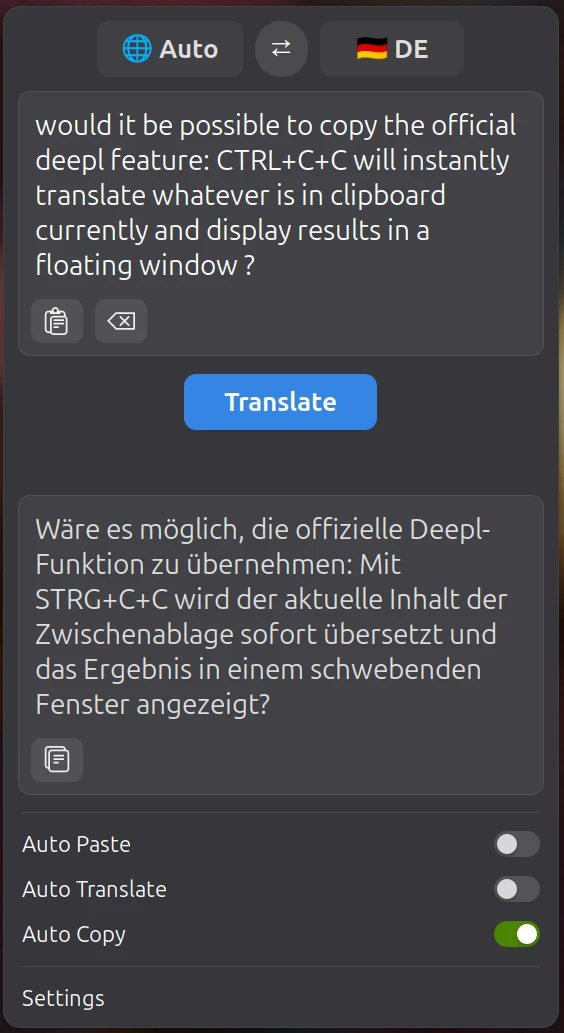
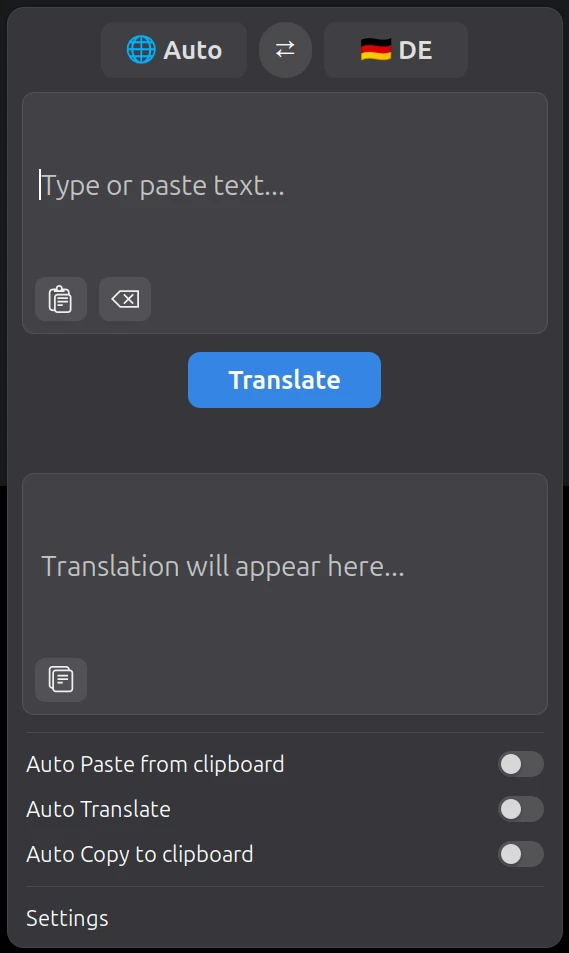
refactor: consolidate preference pages into a single view and improve setting descriptions

diff --git a/prefs.js b/prefs.js
@@ -39,25 +39,25 @@ export default class FastTranslatePreferences extends ExtensionPreferences {
     fillPreferencesWindow(window) {
         const settings = this.getSettings();
 
-        // ----------------- GENERAL PAGE -----------------
-        const generalPage = new Adw.PreferencesPage({
-            title: _('General'),
+        // ----------------- PREFERENCES PAGE -----------------
+        const preferencesPage = new Adw.PreferencesPage({
+            title: _('Preferences'),
             icon_name: 'preferences-other-symbolic',
         });
-        window.add(generalPage);
+        window.add(preferencesPage);
 
-        // Language Group
+        // Group 1: Language Settings
         const langGroup = new Adw.PreferencesGroup({
             title: _('Language Settings'),
         });
-        generalPage.add(langGroup);
+        preferencesPage.add(langGroup);
 
         // Translation Service Combo
         const serviceKey = settings.settings_schema.get_key('translation-service');
         const serviceEnums = serviceKey.get_range().deep_unpack()[1].deep_unpack();
         const serviceRow = new Adw.ComboRow({
             title: _('Translation Service'),
-            subtitle: _('The translation service provider to use'),
+            subtitle: _('Choose between Google Translate (unlimited) and DeepL (requires API key)'),
             model: Gtk.StringList.new(serviceEnums),
         });
         serviceRow.selected = settings.get_enum('translation-service');
@@ -76,7 +76,7 @@ export default class FastTranslatePreferences extends ExtensionPreferences {
         const sourceEnums = sourceKey.get_range().deep_unpack()[1].deep_unpack();
         const sourceLangRow = new Adw.ComboRow({
             title: _('Source Language'),
-            subtitle: _('Language of the text to be translated'),
+            subtitle: _('Default source language for new translations'),
             model: Gtk.StringList.new(sourceEnums),
         });
         sourceLangRow.selected = settings.get_enum('source-lang');
@@ -93,7 +93,7 @@ export default class FastTranslatePreferences extends ExtensionPreferences {
         const targetEnums = targetKey.get_range().deep_unpack()[1].deep_unpack();
         const targetLangRow = new Adw.ComboRow({
             title: _('Target Language'),
-            subtitle: _('The language into which the text should be translated'),
+            subtitle: _('Default target language for new translations'),
             model: Gtk.StringList.new(targetEnums),
         });
         targetLangRow.selected = settings.get_enum('target-lang');
@@ -110,7 +110,7 @@ export default class FastTranslatePreferences extends ExtensionPreferences {
         const formalityEnums = formalityKey.get_range().deep_unpack()[1].deep_unpack();
         const formalityRow = new Adw.ComboRow({
             title: _('Formality'),
-            subtitle: _('Sets whether the translated text should lean towards formal or informal language'),
+            subtitle: _('Lean towards formal or informal language structure (DeepL only)'),
             model: Gtk.StringList.new(formalityEnums),
         });
         formalityRow.selected = settings.get_enum('formality');
@@ -122,15 +122,16 @@ export default class FastTranslatePreferences extends ExtensionPreferences {
         });
         langGroup.add(formalityRow);
 
-        // API Configuration Group
+        // Group 2: API Configuration
         const apiGroup = new Adw.PreferencesGroup({
             title: _('DeepL Translation API Configuration'),
         });
-        generalPage.add(apiGroup);
+        preferencesPage.add(apiGroup);
 
         // URL Entry
         const urlRow = new Adw.EntryRow({
             title: _('DeepL API URL'),
+            subtitle: _('The endpoint URL for DeepL Translation API requests'),
         });
         settings.bind('url', urlRow, 'text', Gio.SettingsBindFlags.DEFAULT);
         apiGroup.add(urlRow);
@@ -138,126 +139,111 @@ export default class FastTranslatePreferences extends ExtensionPreferences {
         // API Key Entry
         const apikeyRow = new Adw.EntryRow({
             title: _('API Key'),
+            subtitle: _('Your private DeepL API authentication key'),
             use_markup: false,
         });
         settings.bind('apikey', apikeyRow, 'text', Gio.SettingsBindFlags.DEFAULT);
         apiGroup.add(apikeyRow);
 
-        // Formatting options Group
+        // Group 3: Formatting Options
         const formattingGroup = new Adw.PreferencesGroup({
             title: _('Formatting Options'),
         });
-        generalPage.add(formattingGroup);
+        preferencesPage.add(formattingGroup);
 
         const splitRow = new Adw.SwitchRow({
             title: _('Split Sentences'),
-            subtitle: _('Split the input text into sentences before translating'),
+            subtitle: _('Split the input text into sentences to improve translation context and quality'),
         });
         settings.bind('split-sentences', splitRow, 'active', Gio.SettingsBindFlags.DEFAULT);
         formattingGroup.add(splitRow);
 
         const preserveRow = new Adw.SwitchRow({
             title: _('Preserve Formatting'),
-            subtitle: _('Respect original formatting details'),
+            subtitle: _('Retain original formatting details like capitalization, spacing, and newlines'),
         });
         settings.bind('preserve-formatting', preserveRow, 'active', Gio.SettingsBindFlags.DEFAULT);
         formattingGroup.add(preserveRow);
 
-
-        // ----------------- BEHAVIOR PAGE -----------------
-        const behaviorPage = new Adw.PreferencesPage({
-            title: _('Behavior'),
-            icon_name: 'preferences-system-details-symbolic',
-        });
-        window.add(behaviorPage);
-
-        // Auto Options Group
+        // Group 4: Panel Menu Automation
         const autoGroup = new Adw.PreferencesGroup({
-            title: _('Automatic Actions'),
+            title: _('Panel Menu Automation'),
         });
-        behaviorPage.add(autoGroup);
+        preferencesPage.add(autoGroup);
 
         const autoPasteRow = new Adw.SwitchRow({
             title: _('Auto Paste from clipboard'),
-            subtitle: _('Paste clipboard content automatically into the input field'),
+            subtitle: _('Automatically paste clipboard contents into the input box when the panel popup opens'),
         });
         settings.bind('auto-paste', autoPasteRow, 'active', Gio.SettingsBindFlags.DEFAULT);
         autoGroup.add(autoPasteRow);
 
         const autoTranslateRow = new Adw.SwitchRow({
             title: _('Auto Translate'),
-            subtitle: _('Translate automatically when input is populated'),
+            subtitle: _('Translate automatically while typing in the input box'),
         });
         settings.bind('auto-translate', autoTranslateRow, 'active', Gio.SettingsBindFlags.DEFAULT);
         autoGroup.add(autoTranslateRow);
 
         const autoCopyRow = new Adw.SwitchRow({
             title: _('Auto Copy to clipboard'),
-            subtitle: _('Copy translations automatically to the clipboard'),
+            subtitle: _('Automatically copy translation results to the clipboard when translation completes'),
         });
         settings.bind('auto-copy', autoCopyRow, 'active', Gio.SettingsBindFlags.DEFAULT);
         autoGroup.add(autoCopyRow);
 
+        // Group 5: Double-Copy Instant Translation
+        const doubleCopyGroup = new Adw.PreferencesGroup({
+            title: _('Double-Copy Instant Translation'),
+        });
+        preferencesPage.add(doubleCopyGroup);
+
         const floatingAutoCopyRow = new Adw.SwitchRow({
-            title: _('Auto Copy (Floating) to clipboard'),
-            subtitle: _('Copy floating translation results automatically to the clipboard'),
+            title: _('Auto Copy (Floating)'),
+            subtitle: _('Automatically copy the translated text to the clipboard when using the floating window'),
         });
         settings.bind('floating-auto-copy', floatingAutoCopyRow, 'active', Gio.SettingsBindFlags.DEFAULT);
-        autoGroup.add(floatingAutoCopyRow);
+        doubleCopyGroup.add(floatingAutoCopyRow);
 
         const backgroundModeRow = new Adw.SwitchRow({
             title: _('Double-copy Background Mode'),
-            subtitle: _('Translate in background on double-copy instead of showing the floating window'),
+            subtitle: _('Translate silently in the background on double-copy (Ctrl+C Ctrl+C) without showing the floating UI'),
         });
         settings.bind('floating-background-mode', backgroundModeRow, 'active', Gio.SettingsBindFlags.DEFAULT);
-        autoGroup.add(backgroundModeRow);
+        doubleCopyGroup.add(backgroundModeRow);
 
         const backgroundToastRow = new Adw.SwitchRow({
             title: _('Show Notification in Background Mode'),
-            subtitle: _('Display a notification when background translation finishes'),
+            subtitle: _('Show a desktop notification with the translation result when running in background mode'),
         });
         settings.bind('floating-background-toast', backgroundToastRow, 'active', Gio.SettingsBindFlags.DEFAULT);
-        autoGroup.add(backgroundToastRow);
+        doubleCopyGroup.add(backgroundToastRow);
 
         backgroundModeRow.bind_property('active', backgroundToastRow, 'sensitive', GObject.BindingFlags.DEFAULT | GObject.BindingFlags.SYNC_CREATE);
 
-
-        // ----------------- STYLE & SYSTEM PAGE -----------------
-        const stylePage = new Adw.PreferencesPage({
-            title: _('System & Style'),
-            icon_name: 'style',
+        // Group 6: System & Shortcuts Integration
+        const systemGroup = new Adw.PreferencesGroup({
+            title: _('System & Shortcuts Integration'),
         });
-        window.add(stylePage);
-
-        // Style Settings Group
-        const styleGroup = new Adw.PreferencesGroup({
-            title: _('Style & Integration'),
-        });
-        stylePage.add(styleGroup);
+        preferencesPage.add(systemGroup);
 
         const notificationsRow = new Adw.SwitchRow({
             title: _('Show Notifications'),
-            subtitle: _('Show system notifications upon translation completions'),
+            subtitle: _('Show a system notification when a panel translation completes'),
         });
         settings.bind('notifications', notificationsRow, 'active', Gio.SettingsBindFlags.DEFAULT);
-        styleGroup.add(notificationsRow);
+        systemGroup.add(notificationsRow);
 
         const darkthemeRow = new Adw.SwitchRow({
             title: _('Dark Theme Indicator'),
-            subtitle: _('Use dark theme panel icons (disable for light theme icons)'),
+            subtitle: _('Use dark theme friendly status icons in the top panel'),
         });
         settings.bind('darktheme', darkthemeRow, 'active', Gio.SettingsBindFlags.DEFAULT);
-        styleGroup.add(darkthemeRow);
-
-        // Shortcut Settings Group
-        const shortcutGroup = new Adw.PreferencesGroup({
-            title: _('Keyboard Shortcuts'),
-        });
-        stylePage.add(shortcutGroup);
+        systemGroup.add(darkthemeRow);
 
         const shortcutRow = new Adw.ActionRow({
             title: _('Clipboard Translation Shortcut'),
-            subtitle: _('Click and press key combination to set shortcut. Escape/Backspace to clear'),
+            subtitle: _('Key combination to instantly translate clipboard contents (opens panel menu with result)'),
         });
         const shortcutLabel = new Gtk.Label({
             valign: Gtk.Align.CENTER,
@@ -300,7 +286,7 @@ export default class FastTranslatePreferences extends ExtensionPreferences {
             }
             return false;
         });
-        shortcutGroup.add(shortcutRow);
+        systemGroup.add(shortcutRow);
 
 
         // ----------------- ABOUT PAGE -----------------
@@ -323,7 +309,7 @@ export default class FastTranslatePreferences extends ExtensionPreferences {
 
         const authorRow = new Adw.ActionRow({
             title: _('Author'),
-            subtitle: 'Lorenzo Carbonell (atareao)',
+            subtitle: 'tazztone (Original by Lorenzo Carbonell / atareao)',
         });
         aboutGroup.add(authorRow);
 
@@ -377,9 +363,9 @@ export default class FastTranslatePreferences extends ExtensionPreferences {
             formalityRow.visible = isDeepL;
 
             if (isDeepL) {
-                autoTranslateRow.subtitle = _('Translate automatically when input is populated');
+                autoTranslateRow.subtitle = _('Translate automatically while typing in the input box');
             } else {
-                autoTranslateRow.subtitle = _('Translate automatically when input is populated. Warning: Your IP address may get banned for API abuse.');
+                autoTranslateRow.subtitle = _('Translate automatically while typing in the input box. Warning: Your IP address may get banned for API abuse.');
             }
         }
         updateServiceVisibility();

diff --git a/extension.js b/extension.js
@@ -418,6 +418,7 @@ var FastTranslate = GObject.registerClass(
                         if (fromText && fromText !== "") {
                             this.inputEntry.get_clutter_text().set_text(fromText);
                             this._triggerTranslation();
+                            this.menu.open();
                         }
                     });
                 }